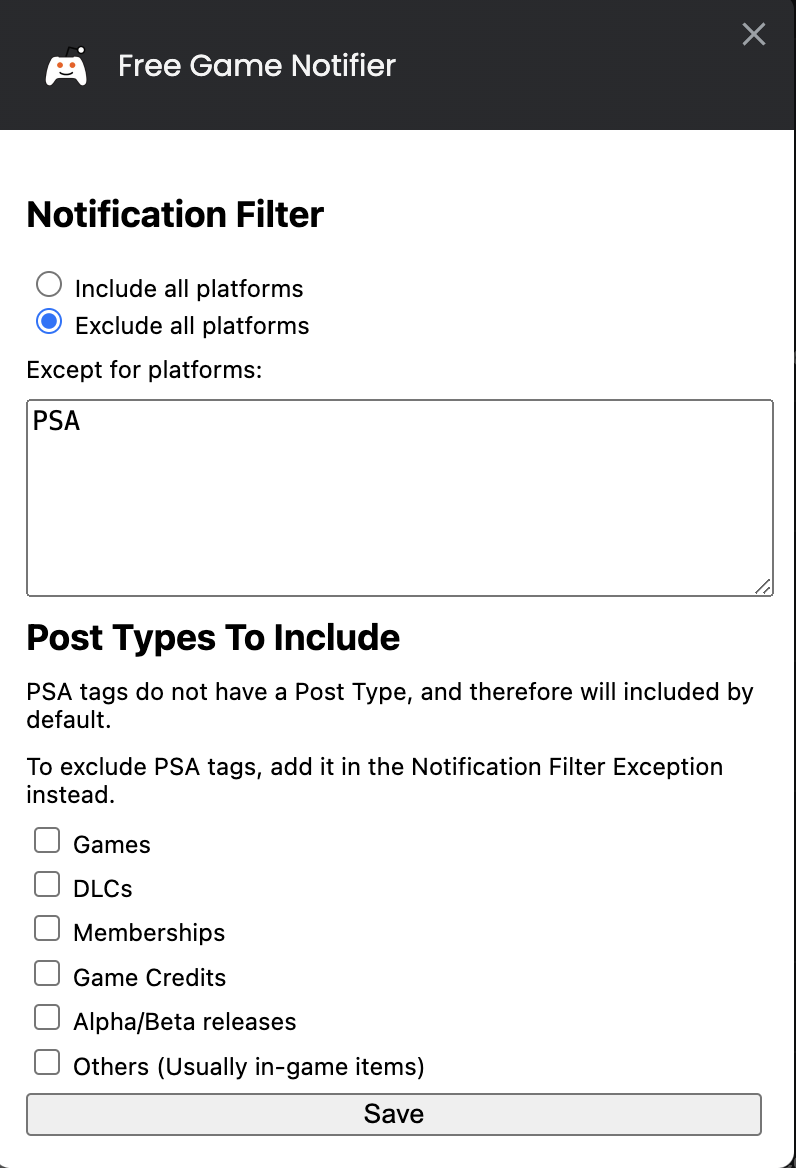
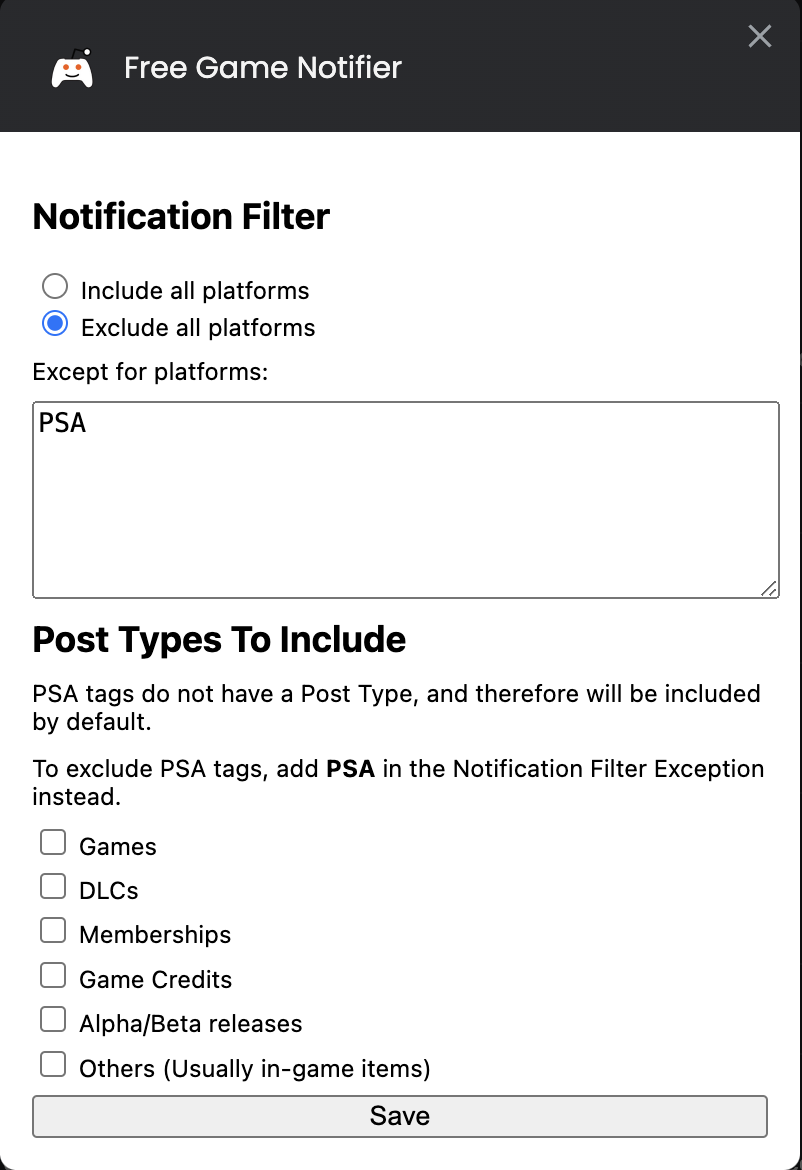
Update settings page description

diff --git a/pages/settings.html b/pages/settings.html
@@ -37,8 +37,8 @@
     </div>
 
     <h2 class="y-margin-sm">Post Types To Include</h2>
-    <p class="y-margin-sm">PSA tags do not have a Post Type, and therefore will included by default.</p>
-    <p class="y-margin-sm">To exclude PSA tags, add it in the Notification Filter Exception instead.</p>
+    <p class="y-margin-sm">PSA tags do not have a Post Type, and therefore will be included by default.</p>
+    <p class="y-margin-sm">To exclude PSA tags, add <strong>PSA</strong> in the Notification Filter Exception instead.</p>
 
     <div>
       <input type="checkbox" id="postTypeGame" name="postTypeGame">
